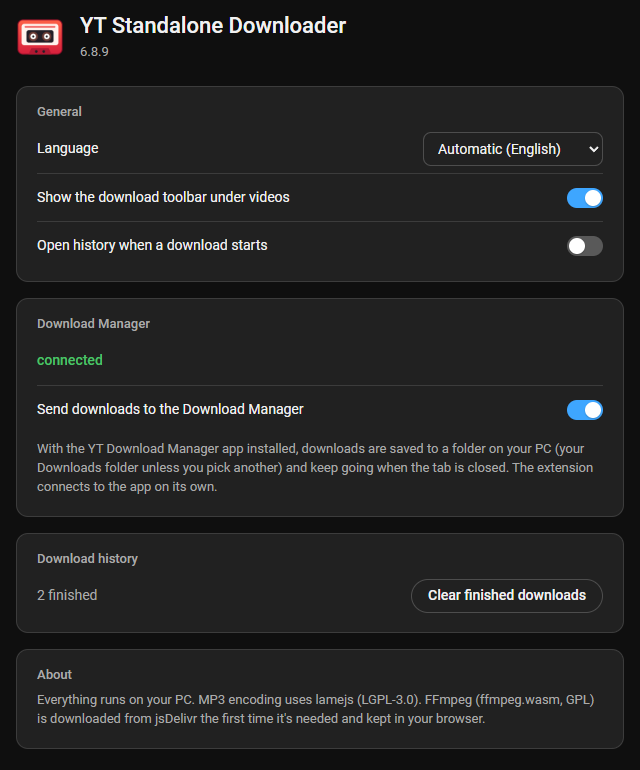
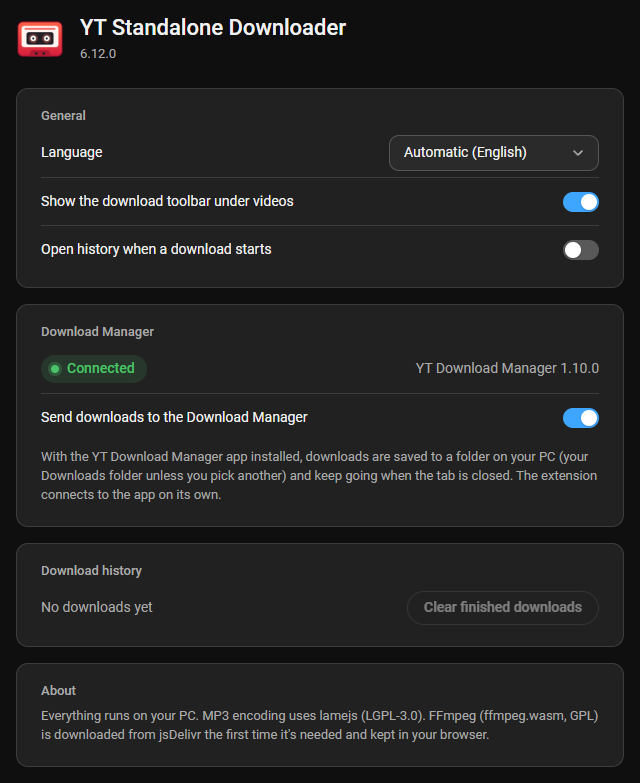
docs: new app window and options screenshots

diff --git a/docs/index.html b/docs/index.html
@@ -137,7 +137,7 @@
       <div class="card"><h3>Age-restricted and members-only videos</h3><p>If your YouTube account may watch a video, the app can download it too.</p></div>
       <div class="card"><h3>Your video comes first</h3><p>Downloads slow down for a moment when the video you are watching needs the connection.</p></div>
       <div class="card"><h3>Updates itself</h3><p>When a new version is out, one click installs it, and the browser extension follows on its own. Install with Scoop if you like.</p></div>
-      <div class="card"><h3>10 languages</h3><p>English, German, Spanish, French, Italian, Portuguese, Polish, Russian, Japanese and Chinese.</p></div>
+      <div class="card"><h3>10 languages</h3><p>The extension and the app speak English, German, Spanish, French, Italian, Portuguese, Polish, Russian, Japanese and Chinese.</p></div>
     </div>
 
     <h2>See it in action</h2>

diff --git a/README.md b/README.md
@@ -87,7 +87,8 @@ YT Download Manager has two parts that work together:
   use the arrow keys to go to the next Short. The window keeps the video's shape when you resize it.
 - **Back and forward through Shorts.** Going back shows the Shorts you already watched, in order.
 - **Loop and theme.** Repeat a video, or switch YouTube between light and dark with one click.
-- **10 languages.** English, German, Spanish, French, Italian, Portuguese, Polish, Russian, Japanese and Chinese.
+- **10 languages.** The extension and the app speak English, German, Spanish, French, Italian, Portuguese, Polish,
+  Russian, Japanese and Chinese.
 
 ## Download
 
